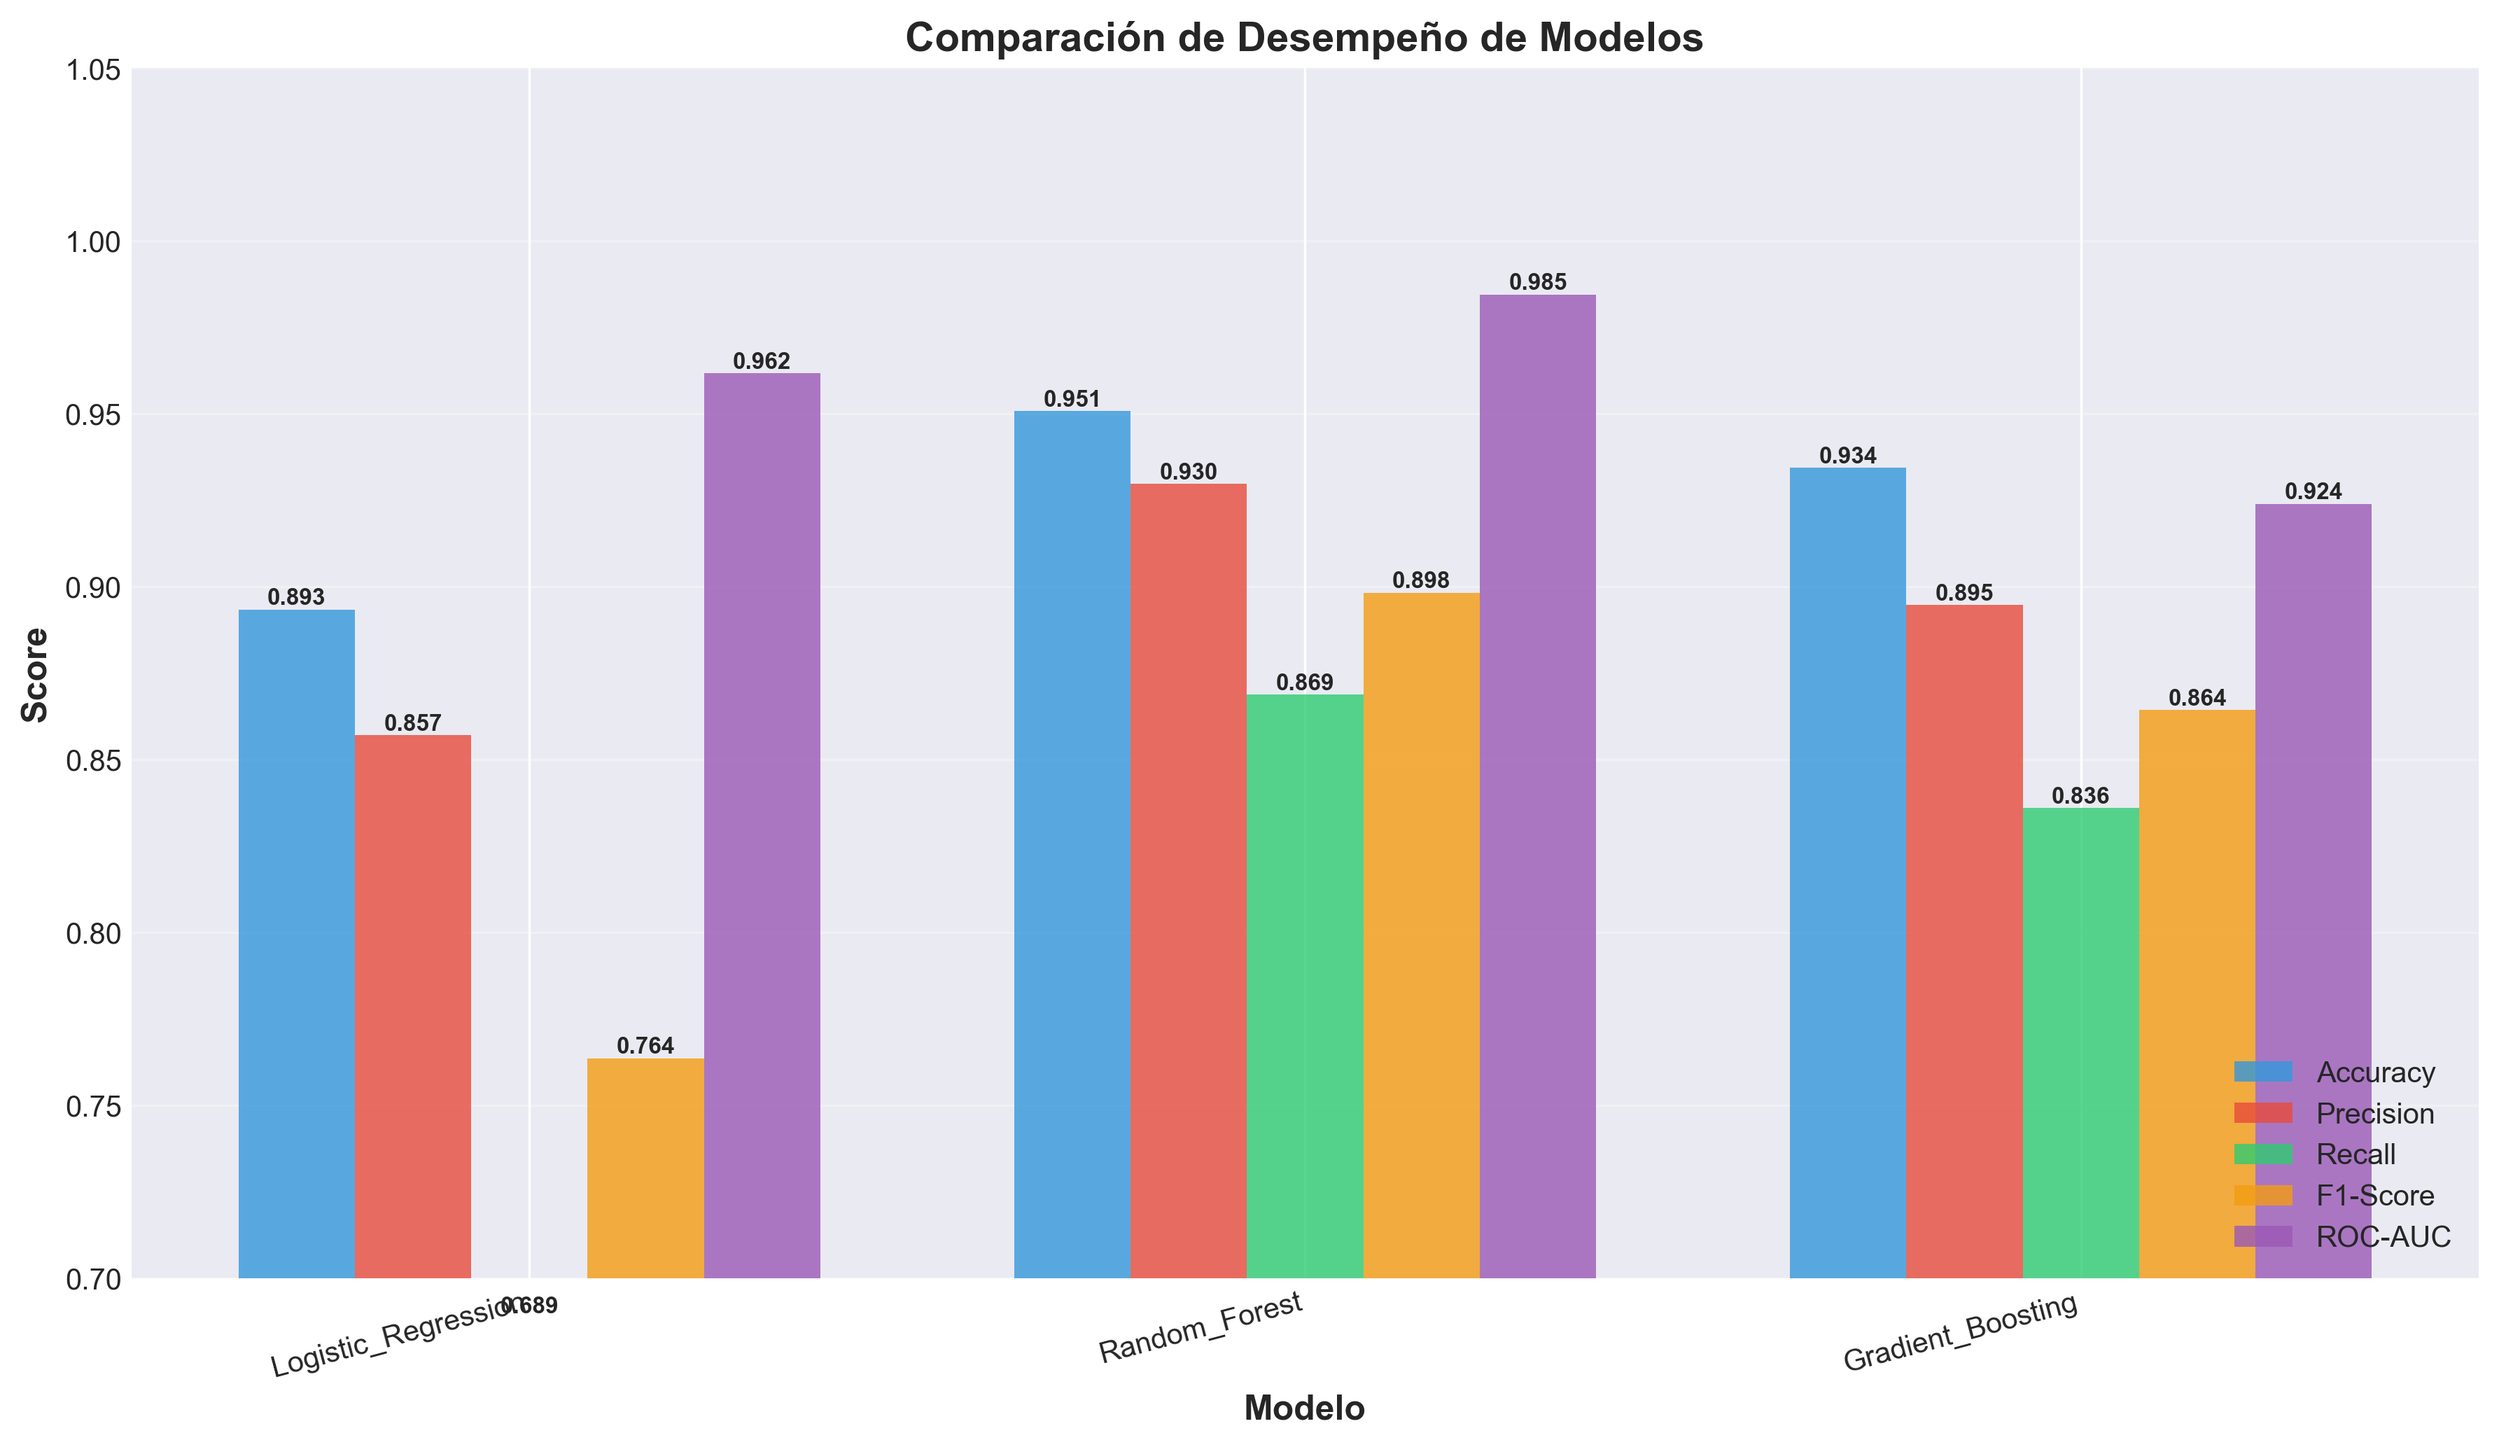
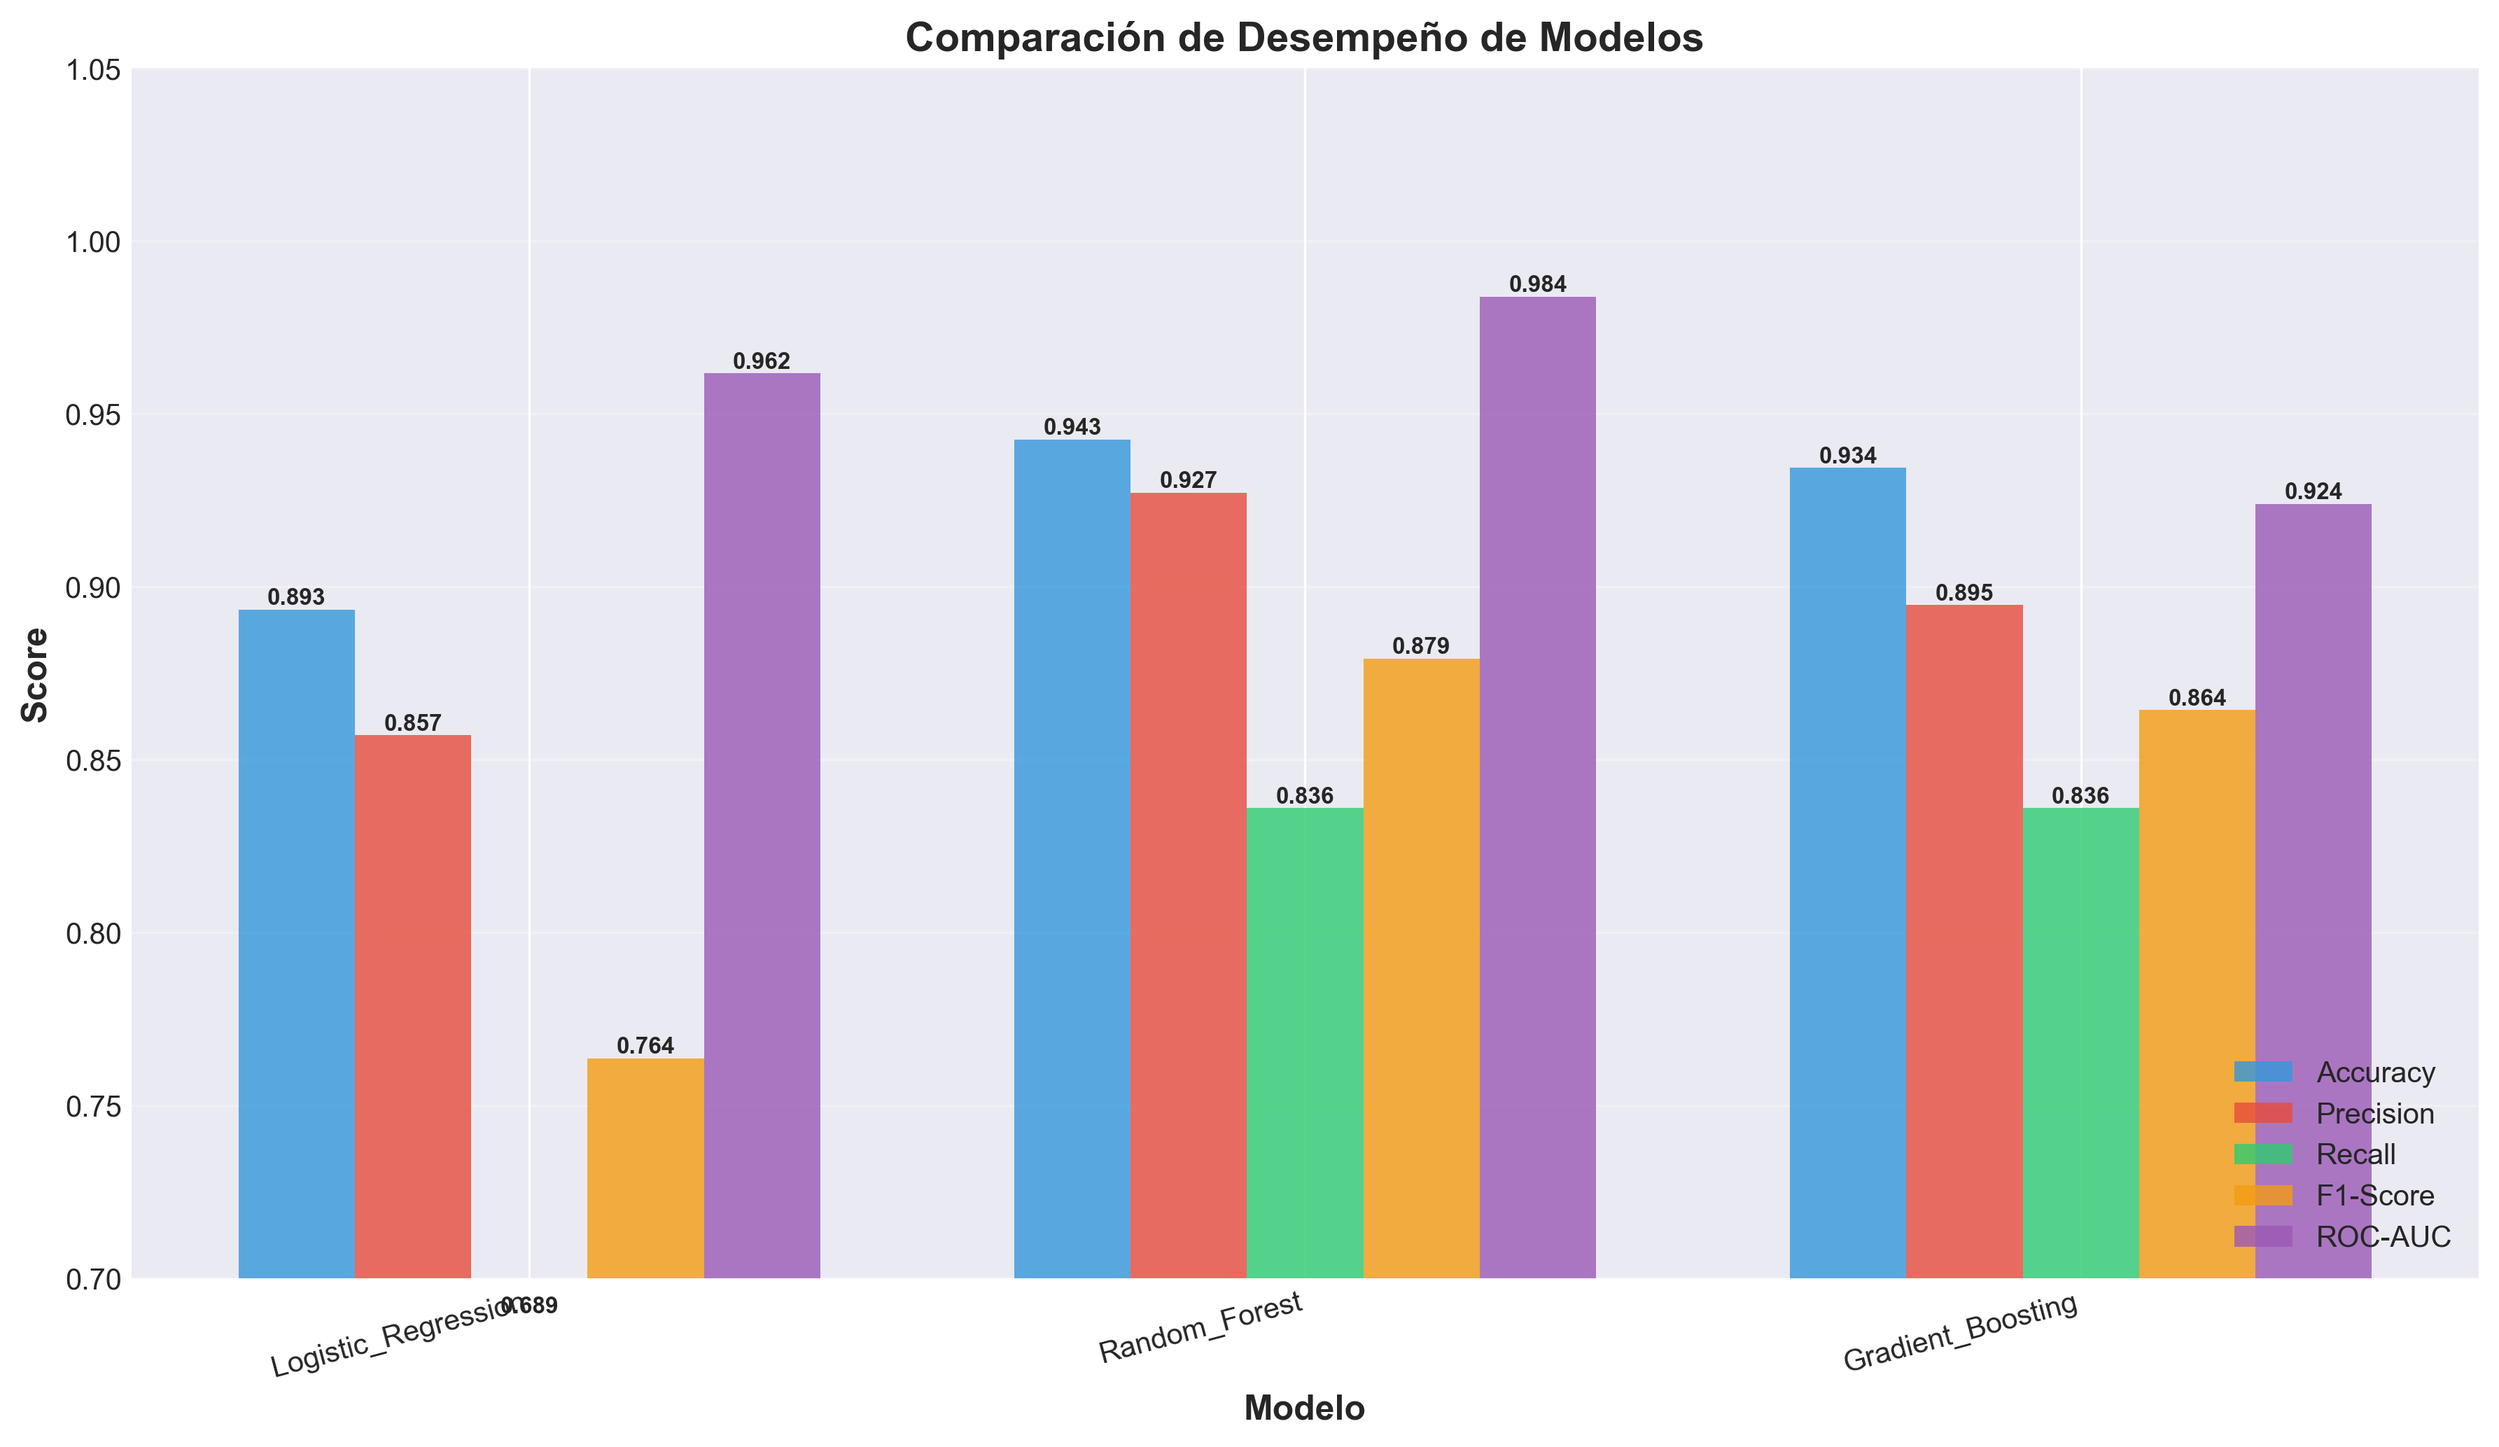
ajuste del número de arboles y profundidad RF

Changed region(s): [[0.4975, 0.4025, 0.5908, 0.5573], [0.4042, 0.2787, 0.4975, 0.3406], [0.5908, 0.1858, 0.6218, 0.2167]]

diff --git a/02_Modelado_MLflow.py b/02_Modelado_MLflow.py
@@ -99,7 +99,7 @@ print("\n[5/8] ENTRENANDO MODELOS...")
 
 modelos = {
     'Logistic_Regression': LogisticRegression(max_iter=1500, random_state=42),
-    'Random_Forest': RandomForestClassifier(n_estimators=100, max_depth=15, random_state=42),
+    'Random_Forest': RandomForestClassifier(n_estimators=60, max_depth=15, random_state=42),
     'Gradient_Boosting': GradientBoostingClassifier(n_estimators=100, learning_rate=0.1, max_depth=10, random_state=42)
 }
 
